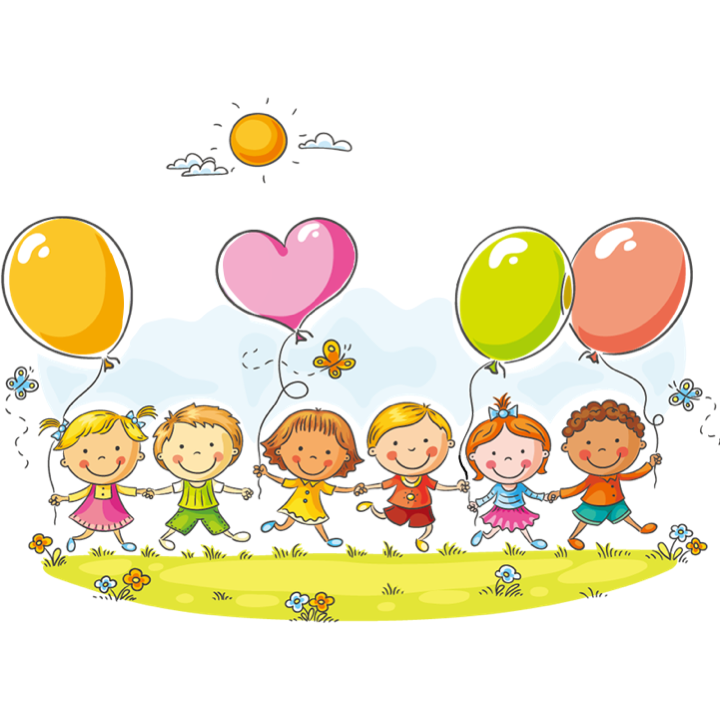
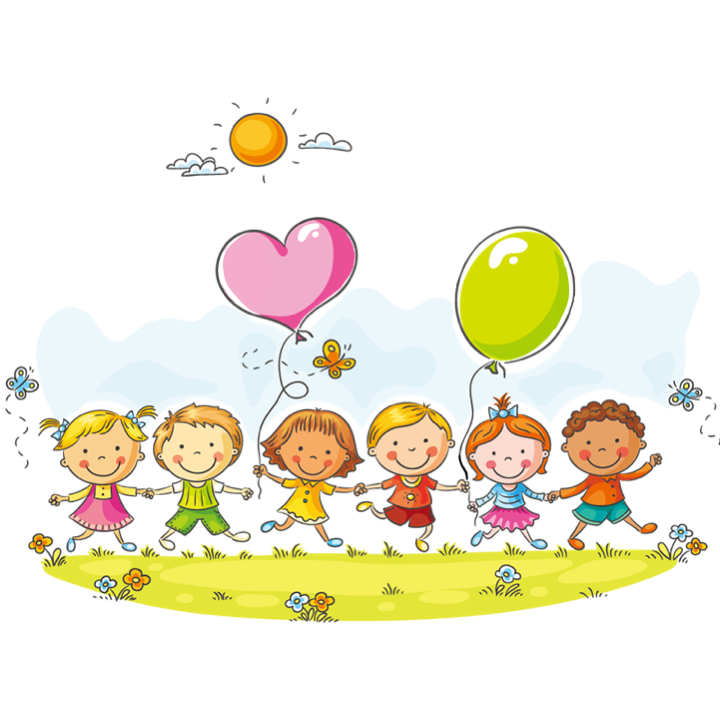
Handle incorrect guess --- displaying corresponding popped balloon image on page

diff --git a/app.js b/app.js
@@ -34,15 +34,15 @@ function randomWord() {
 function wordGame() {
  
     //clear previous input box
-    for(var i = 0; i < 13; i++) {
-        document.getElementById('letter-' + i).textContent = ' ';
+    for(var j = 0; j < 13; j++) {
+        document.getElementById('letter-' + j).textContent = ' ';
     }
     // clear game response line
     response.textContent = '';
     // clear guessed letters line
     guesses.textContent = '';
 
-    guessNumber = 7;
+    guessNumber = 6;
     checkWin = '';
     guessedLetter = '';
     guessesRemaining.textContent = 'Guesses remaining: ' + guessNumber;
@@ -109,11 +109,16 @@ function guessLetter() {
         
     }
 
-    // Guessed letter is incorrect ==> decrement guesses remaining
+    // Guessed letter is incorrect 
     else {
+        // ==> display pop balloon image
+        document.getElementById('image').src = 'image' + guessNumber + '.png';
+        
+        // ==> decrement guesses remaining
         guessNumber--;
         guessesRemaining.textContent = 'Guesses remaining: ' + guessNumber;
         guessedLetter = guessedLetter + letterGuess;
+        
 
     }
     guesses.textContent = guessedLetter.split('').join(', ');

diff --git a/index.html b/index.html
@@ -13,7 +13,7 @@
         <h1>Pop or Party</h1>
     </header>
     <section>
-        <img src="image1.png" alt="Children with balloons" />
+        <img id="image" src="image7.png" alt="Children with balloons" />
     </section>
 
 <!-- Button> -->
@@ -60,7 +60,7 @@
 
 <!-- Message - pick another letter/win/loose -->
     <section>
-        <p id="game-response">Pick Another Letter/ You Win </p>
+        <p id="game-response"> Ready to Play</p>
     </section>
 
 <!-- Message - guesses remaining -->
